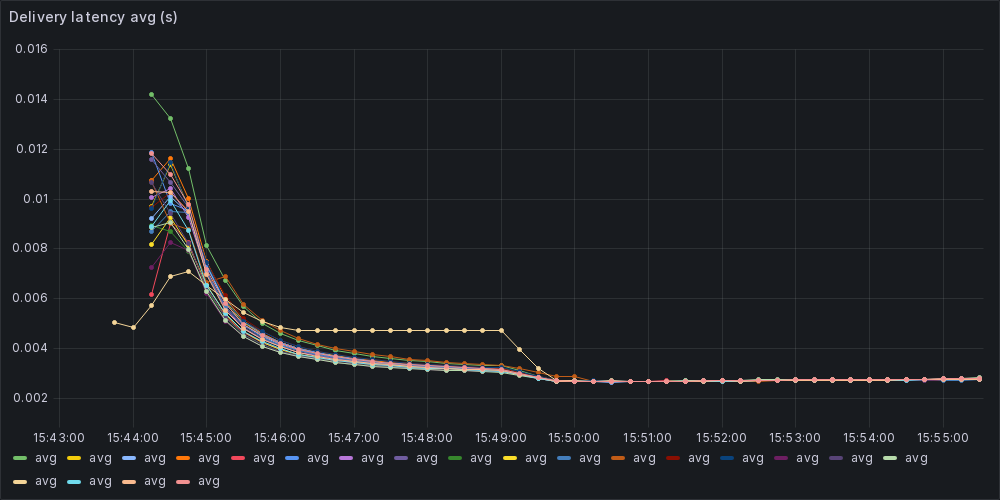
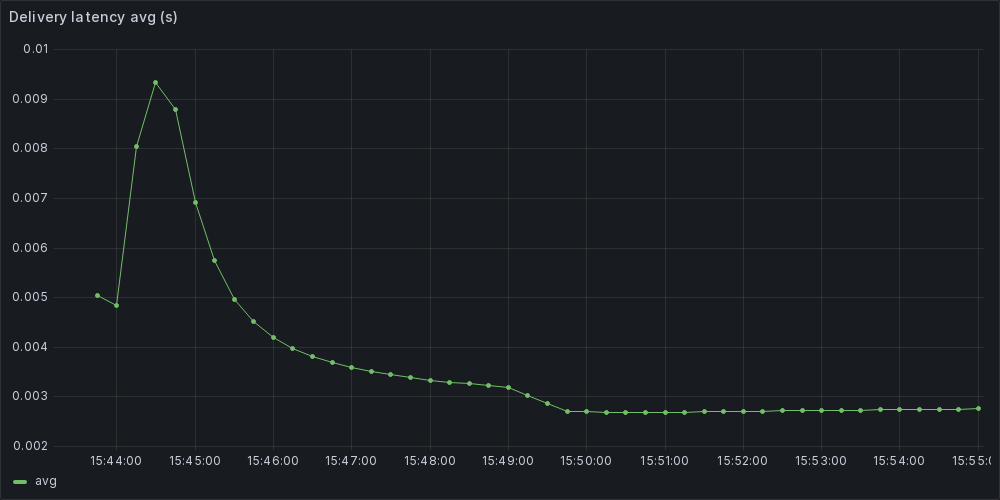
Add scaling run artifacts

diff --git a/perf/results.md b/perf/results.md
@@ -61,3 +61,93 @@ Artifacts:
 - perf/artifacts/2026-02-06-run1-ingest-rate.png
 - perf/artifacts/2026-02-06-run1-delivery-outcomes.png
 - perf/artifacts/2026-02-06-run1-latency.png
+
+## Run 2
+Test intent:
+Multi-worker baseline ingest with healthy delivery target
+Environment:
+MacBook Air, Docker Compose
+Config:
+- Worker enabled (2 instances)
+- max-in-flight-per-destination=10
+- batch-size=200
+- poll-interval=1s
+- rate limit: 10000/second
+Load profile:
+- destinations=20 (round-robin)
+- requests=100000
+- concurrency=200
+- webhook target: local echo (200 OK)
+Command:
+```
+BASE_URL=http://localhost:8080 \
+API_KEY=dev-admin-key \
+DEST_URL=http://webhook:8080/webhook \
+DESTINATIONS=20 \
+REQUESTS=100000 \
+CONCURRENCY=200 \
+./scripts/load/run_event_load.sh
+```
+Results:
+- RPS: 1184.31
+- p50/p95/p99: 0.1358 / 0.3875 / 0.5892 seconds
+- error rate: 0% (100000/100000 201)
+- delivery throughput: see Grafana chart (steady plateau during backlog drain)
+- backlog drain time: see Grafana chart (delivery rate falls to zero)
+Raw output:
+```
+Requests: 100000
+Elapsed(s): 84.437
+RPS: 1184.31
+Status codes: {'201': 100000}
+Latency(s) p50/p95/p99/avg/max: 0.1358 0.3875 0.5892 0.1664 1.4902
+```
+Artifacts:
+- perf/artifacts/2026-02-06-run2-ingest-rate.png
+- perf/artifacts/2026-02-06-run2-delivery-outcomes.png
+- perf/artifacts/2026-02-06-run2-latency.png
+
+## Run 3
+Test intent:
+Scaling test with more destinations and larger batch size
+Environment:
+MacBook Air, Docker Compose
+Config:
+- Worker enabled (2 instances)
+- max-in-flight-per-destination=10
+- batch-size=500
+- poll-interval=1s
+- rate limit: 10000/second
+Load profile:
+- destinations=50 (round-robin)
+- requests=100000
+- concurrency=200
+- webhook target: local echo (200 OK)
+Command:
+```
+BASE_URL=http://localhost:8080 \
+API_KEY=dev-admin-key \
+DEST_URL=http://webhook:8080/webhook \
+DESTINATIONS=50 \
+REQUESTS=100000 \
+CONCURRENCY=200 \
+./scripts/load/run_event_load.sh
+```
+Results:
+- RPS: 1461.96
+- p50/p95/p99: 0.1152 / 0.2954 / 0.4319 seconds
+- error rate: 0% (100000/100000 201)
+- delivery throughput: see Grafana chart (steady plateau during backlog drain)
+- backlog drain time: see Grafana chart (delivery rate falls to zero)
+Raw output:
+```
+Requests: 100000
+Elapsed(s): 68.402
+RPS: 1461.96
+Status codes: {'201': 100000}
+Latency(s) p50/p95/p99/avg/max: 0.1152 0.2954 0.4319 0.1356 1.1257
+```
+Artifacts:
+- perf/artifacts/2026-02-10-run3-ingest-rate.png
+- perf/artifacts/2026-02-10-run3-delivery-outcomes.png
+- perf/artifacts/2026-02-10-run3-latency.png

diff --git a/perf/README.md b/perf/README.md
@@ -22,6 +22,19 @@ CONCURRENCY=200 \
 ./scripts/load/run_event_load.sh
 ```
 
+## Scaling test (more destinations + larger batch)
+```bash
+docker compose -f docker-compose.yml -f docker-compose.perf.yml -f docker-compose.scale.yml up --build -d
+
+BASE_URL=http://localhost:8080 \
+API_KEY=dev-admin-key \
+DEST_URL=http://webhook:8080/webhook \
+DESTINATIONS=50 \
+REQUESTS=100000 \
+CONCURRENCY=200 \
+./scripts/load/run_event_load.sh
+```
+
 ## Clean up
 ```bash
 docker compose -f docker-compose.yml -f docker-compose.perf.yml down
